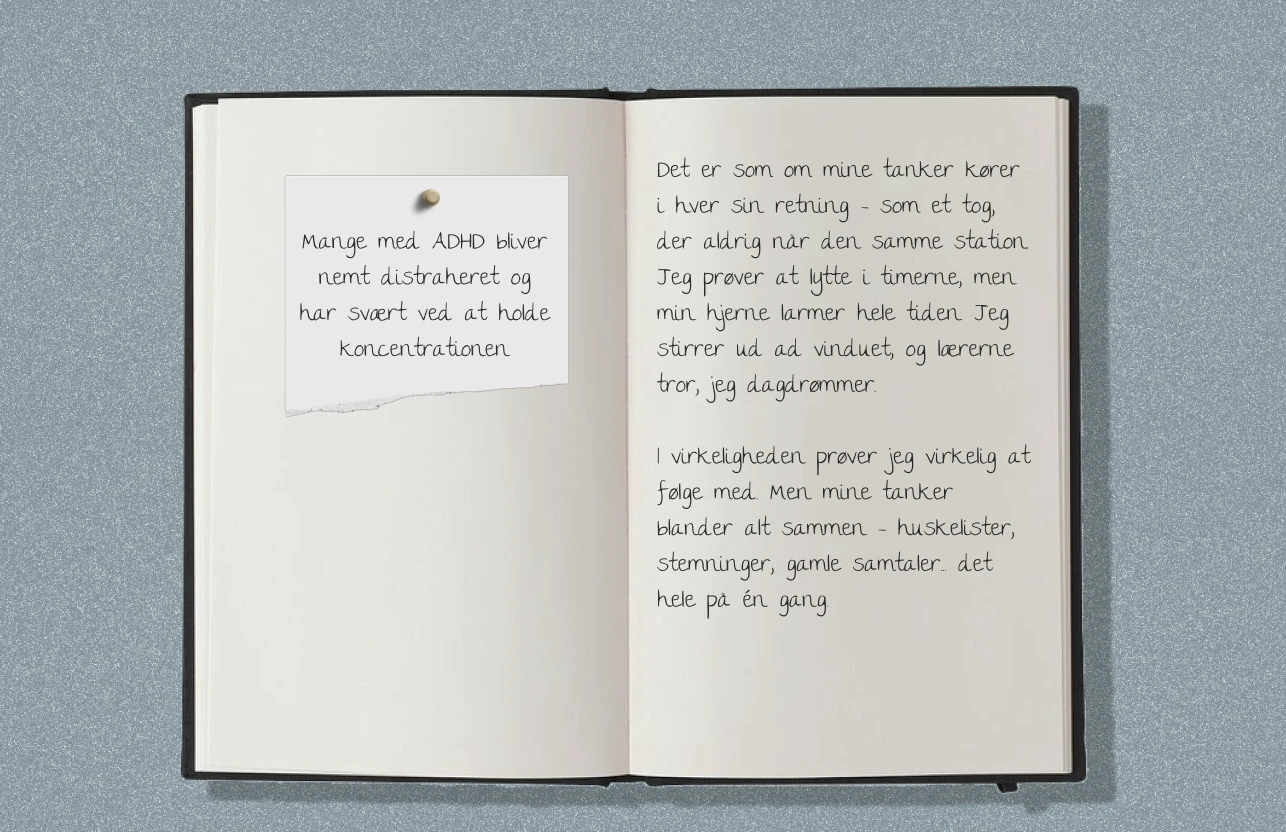
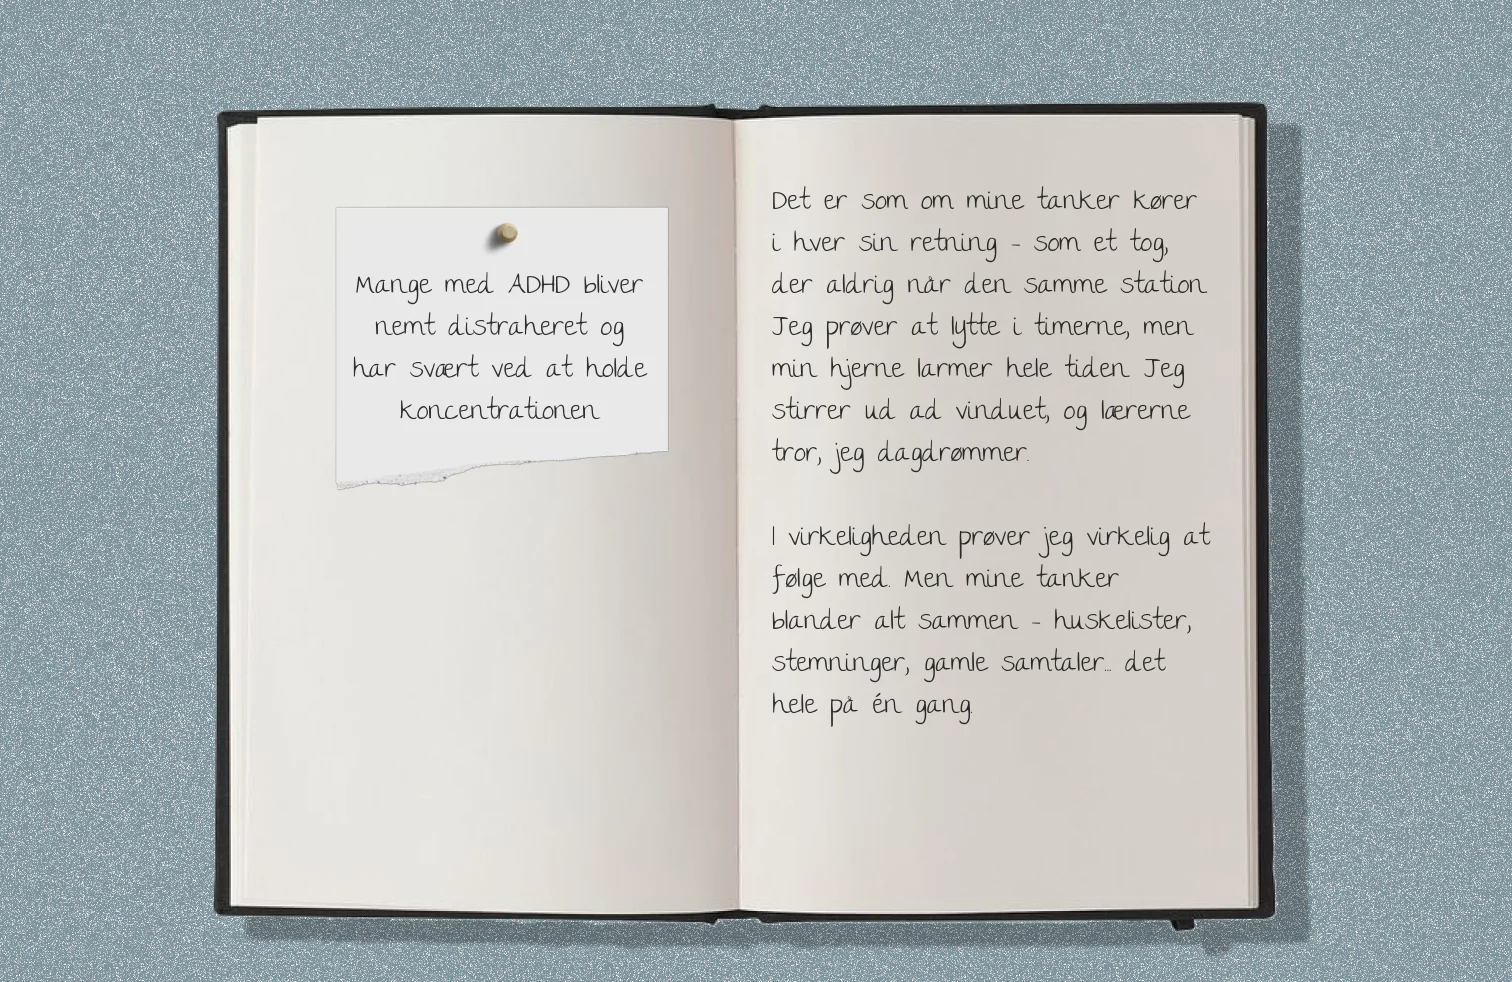
background

diff --git a/undersider/hjernen/hjernen-1.html b/undersider/hjernen/hjernen-1.html
@@ -1,0 +1,14 @@
+<!DOCTYPE html>
+<html lang="da">
+<head>
+    <meta charset="UTF-8">
+    <meta name="viewport" content="width=device-width, initial-scale=1.0">
+    <title>Hjernesiden</title>
+
+    <link rel="stylesheet" href="/css/hjerne.css">
+
+</head>
+<body>
+<img src="/img/hjernen/dagbog.webp" alt="Billede af dagbogen med skrift">
+</body>
+</html>

diff --git a/css/hjerne.css b/css/hjerne.css
@@ -1,0 +1,14 @@
+*{
+    margin: 0;
+    padding: 0;
+    box-sizing: border-box;
+}
+
+body{
+    background-image: url('/img/maven/maveside_dagbog.webp');
+    background-size: cover;
+    background-position: center;
+    background-repeat: no-repeat;
+    height: 100vh;
+    margin: 0;
+}
